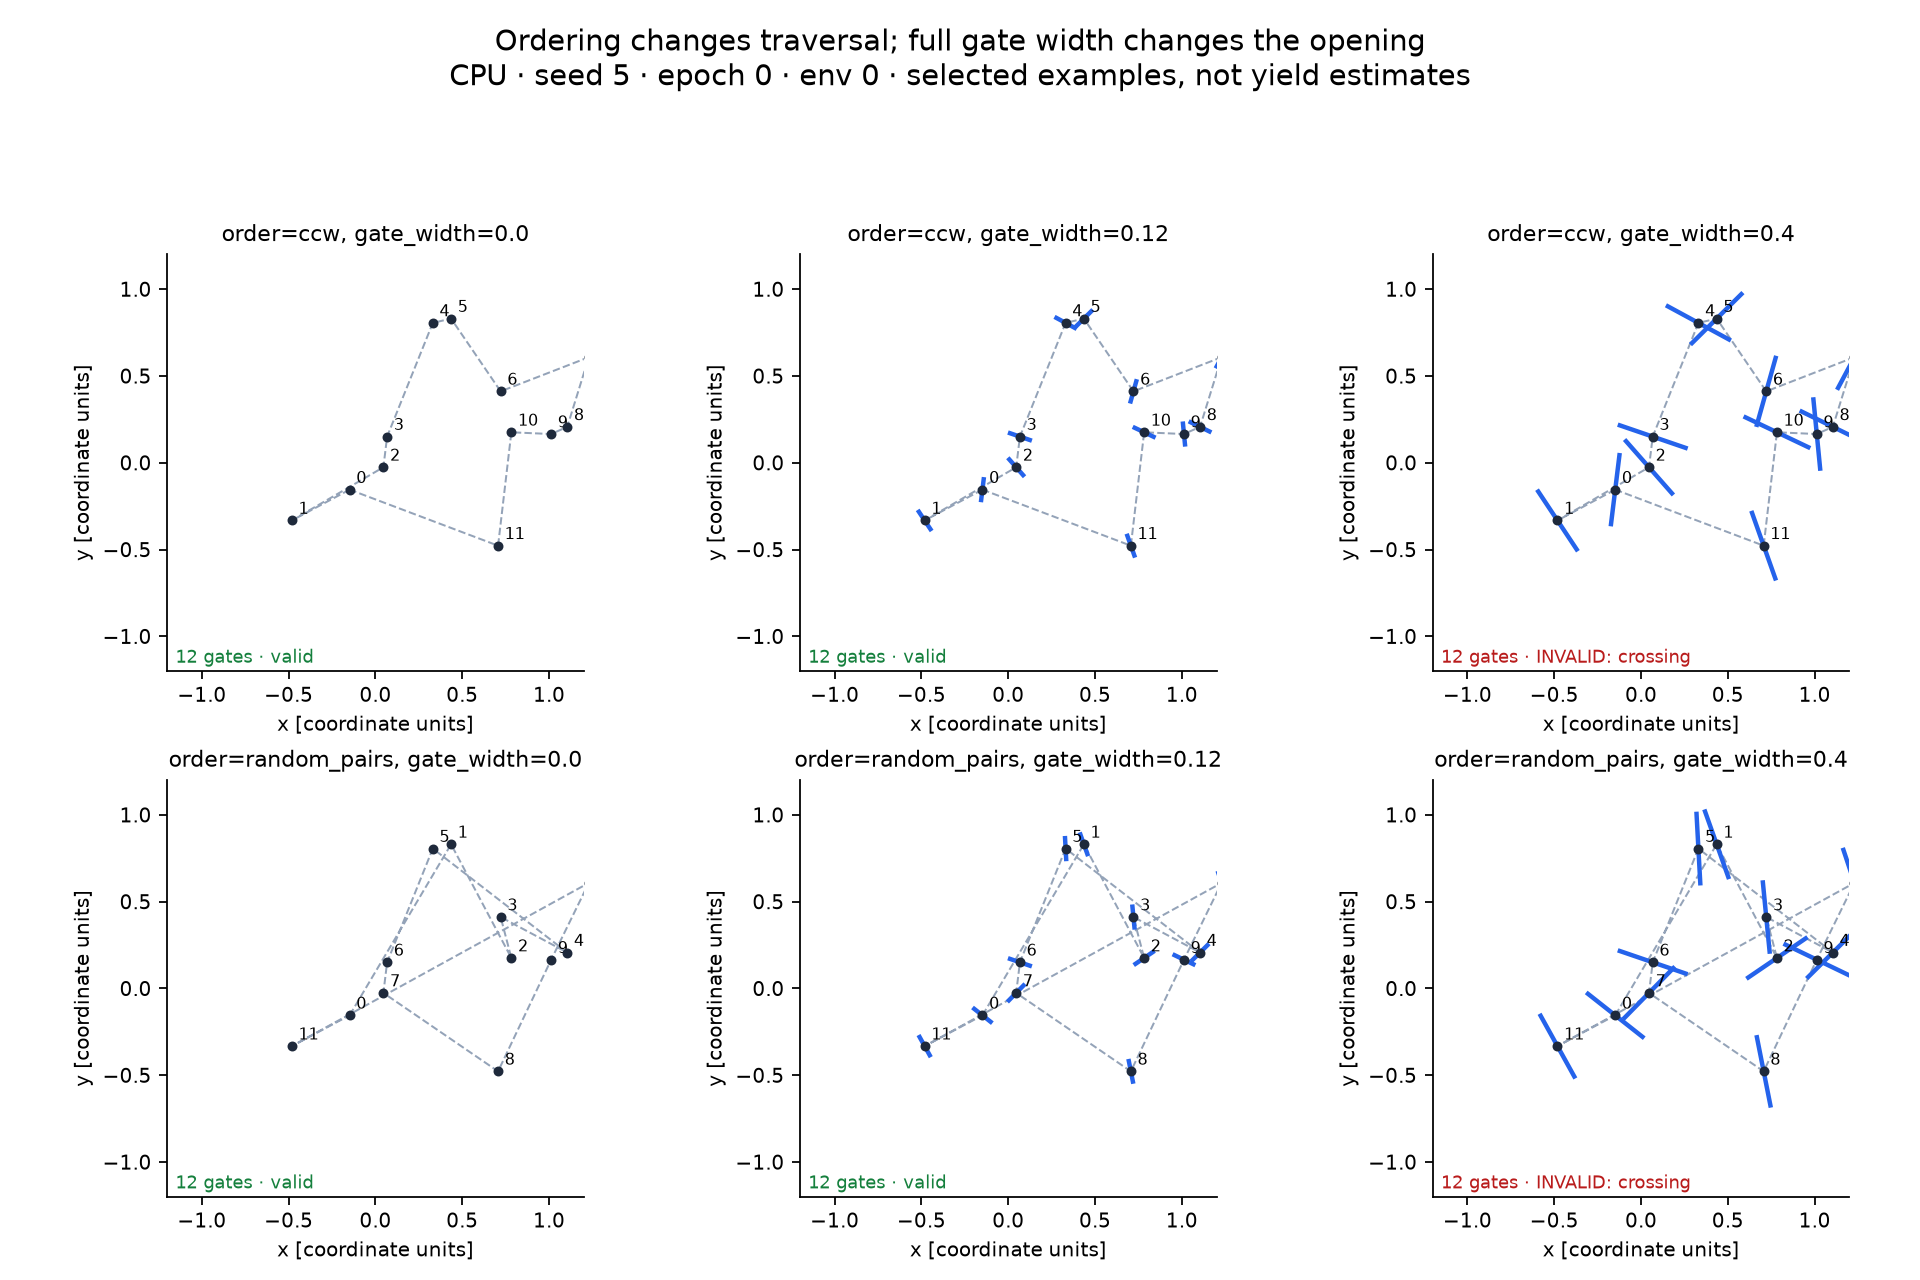
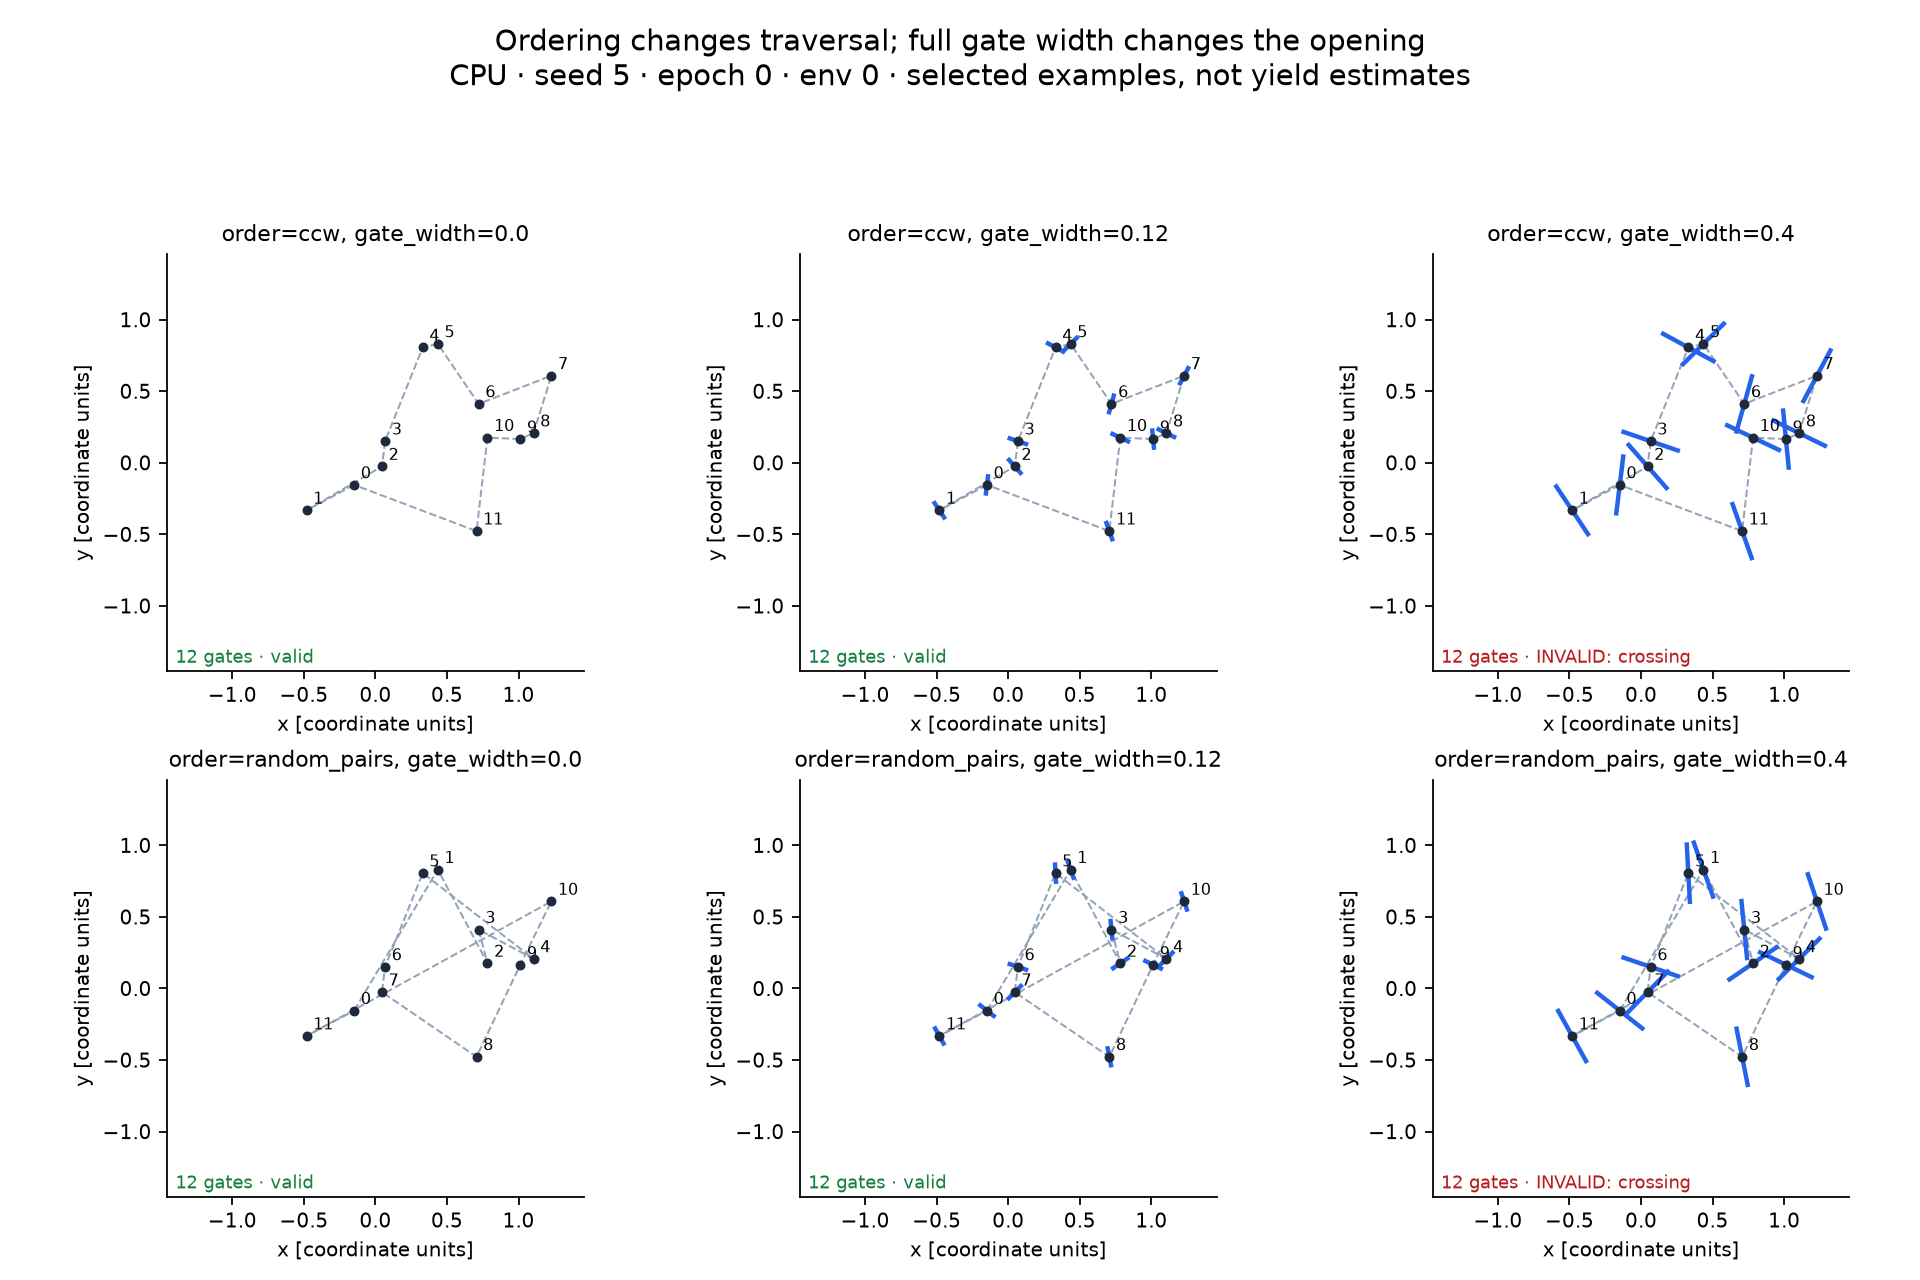
docs: keep every gate visible and clarify convergence evidence

diff --git a/viz/render_course_guide.py b/viz/render_course_guide.py
@@ -110,6 +110,16 @@ def _plan(ax, d, *, beads=False, limits=None):
             fontsize=8, color=GREEN if d["valid"] else RED)
 
 
+def _gate_xy(d):
+    return np.concatenate([d[field][:d["count"], :2] for field in ("position", "left", "right")])
+
+
+def _gate_bounds_contain(ax, d):
+    points = _gate_xy(d)
+    return bool(np.all(points >= (ax.get_xlim()[0], ax.get_ylim()[0])) and
+                np.all(points <= (ax.get_xlim()[1], ax.get_ylim()[1])))
+
+
 def _gate_plan(ax, d, *, radius=0.0, numbering=False, limits=1.2):
     p = d["position"]
     c = _closed(p)
@@ -282,12 +292,17 @@ def sources_and_order(out):
         ax.set_title(label, fontsize=10)
     CHECKS["sources_differ"] = not np.allclose(samples[0]["position"], samples[1]["position"])
     _save(fig, out, "controls-gate-sources", "The same family has distinct native-gate and track-station paths")
+    comparisons = [(order, width) for order in ("ccw", "random_pairs") for width in (0.0, 0.12, 0.4)]
+    order_samples = [gates(f"order-{order}-width-{width}", gate_ordering=order,
+                           gate_width=width, on_invalid="keep") for order, width in comparisons]
+    # All six panels share a square view, with room for bars and gate-number labels.
+    limits = float(np.max(np.abs(np.concatenate([_gate_xy(d) for d in order_samples])))) * 1.10
     fig, axes = plt.subplots(2, 3, figsize=(12, 8))
-    for row, order in enumerate(("ccw", "random_pairs")):
-        for col, width in enumerate((0.0, 0.12, 0.4)):
-            d = gates(f"order-{order}-width-{width}", gate_ordering=order, gate_width=width, on_invalid="keep")
-            _gate_plan(axes[row, col], d, numbering=True)
-            axes[row, col].set_title(f"order={order}, gate_width={width}", fontsize=10)
+    for ax, d, (order, width) in zip(axes.flat, order_samples, comparisons):
+        _gate_plan(ax, d, numbering=True, limits=limits)
+        ax.set_title(f"order={order}, gate_width={width}", fontsize=10)
+    CHECKS["gate_order_width_bounds_contain_geometry"] = all(
+        _gate_bounds_contain(ax, d) for ax, d in zip(axes.flat, order_samples))
     _save(fig, out, "controls-gate-order-width", "Ordering changes traversal; full gate width changes the opening")
     fig, axes = plt.subplots(1, 3, figsize=(12, 4.7))
     rad_samples = []
@@ -421,7 +436,7 @@ def validate():
                 "stations_xyz_equal_arc", "size_preserves_absolute_width", "poison_clears_failed_geometry",
                 "width_channel_nonvacuous", "width_channel_formula_0", "width_channel_formula_1",
                 "width_channel_bounds_0", "width_channel_bounds_1", "gate_elevation_preserves_xy",
-                "gate_elevation_all_active"}
+                "gate_elevation_all_active", "gate_order_width_bounds_contain_geometry"}
     assert required <= CHECKS.keys(), required - CHECKS.keys()
     assert len([k for k in CHECKS if k.startswith("elevation_knob_")]) == 6
     assert all(CHECKS.values()), {k: v for k, v in CHECKS.items() if not v}

diff --git a/docs/relaxation/gates.rst b/docs/relaxation/gates.rst
@@ -79,9 +79,12 @@ Watch actual rounds
 Native Bezier sequences, seed/env 3 (11 gates), 0 (13 gates) and 9 (10 gates), selected
 from 24 candidates at epoch 0 for crowded raw anchors. Radius ``.13`` gives target
 ``.26``; full opening width is ``.16``. Each frame regenerates an actual round budget
-from 0 through 16 with ``keep`` and a fixed viewpoint. The round-indexed deterministic
-tie-break makes each budget a prefix of the same solve, rather than an interpolation
-between pictures. The renderer checks this against its captured states.
+from 0 through 16 with ``keep`` and a fixed viewpoint. The renderer checks that the raw
+round-zero state repeats. The source uses a fixed pair schedule and a round-indexed
+deterministic tie-break; per-round arithmetic does not depend on the total budget.
+Together these justify interpreting the separately generated positions as prefixes of
+the same solve. Tangents and gate frames are recomputed for each budget; the prefix
+reasoning applies to the XY separation states.
 
 **Text alternative:** overlapping gray spacing disks separate most visibly in the
 early rounds, then the movement shrinks. The first two selected sequences pass validity

diff --git a/docs/configuration/tuning.rst b/docs/configuration/tuning.rst
@@ -208,7 +208,7 @@ built-ins, none for external geometry. ``relax=None`` skips it; flat configs use
 the accepted sampled thickness threshold is ``(1 - relax_tol) * half_width``.
 ``turning_tol=.1`` radians, ``w_floor=.001`` distance,
 ``validity_border_check=False`` and ``z_valid_grade=0`` (off) are also static acceptance
-controls. See :doc:`/how-it-works/validity` for their limits.
+controls. See :ref:`geometry-validity` for their limits.
 
 Execution settings do not shape the road
 ----------------------------------------

diff --git a/docs/tracks-25d.rst b/docs/tracks-25d.rst
@@ -1,7 +1,7 @@
 .. _course-elevation:
 
 Add elevation to a road
-======================
+=======================
 
 A TrackGen road is a ribbon with level cross-sections: XY layout and width are solved
 first, then the same altitude lifts the center, inner and outer point at each index.
